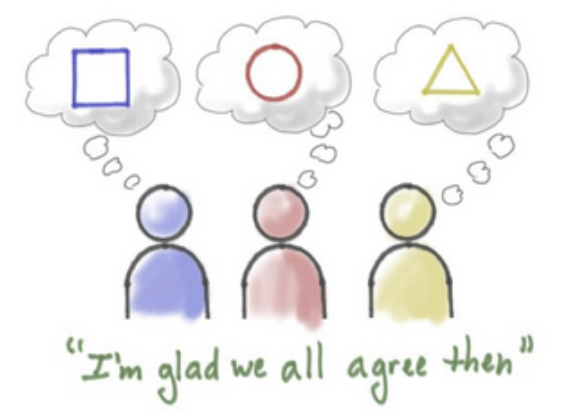
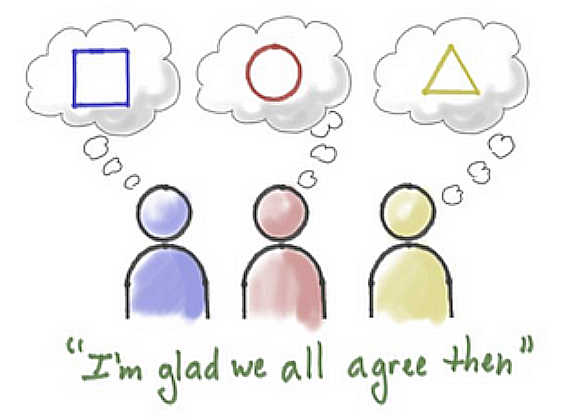
Enhancements

diff --git a/_posts/2019-05-08-BA-and-Beyond.md b/_posts/2019-05-08-BA-and-Beyond.md
@@ -37,6 +37,8 @@ Some typical BA behavioural mistakes are triggered by the way they see themselve
 For instance, a BA could feel to not be part of the team: there are de facto less analysts than developers in a team which can lead to an «Us VS Them» mentality.
 It is also sometimes difficult to build a BA community and the BA role sometimes being sandwiched between IT and the business might lead to negative self perceptions such as «I am just a BA» or «Neither the PO nor the developers understand me».
 
+<img alt="bad-ba-behaviours" src="{{ '/img/ba-and-beyond-2019/bad-ba-behaviours.jpg' | prepend: site.baseurl }}" class="image fit" style="margin:0px auto; max-width: 500px;">
+
 Understanding that the BA is fully part of the team and is not the only one accountable for the communication between IT and Business, leads to better collaboration and is a great step towards agility, allowing all team members to be more confident and positive.
 Whatever your role in a project team; collaboration, transparency, confidence - in yourself and in your team mates - as well as clear communication are key factors to succeed together.
 
@@ -48,8 +50,7 @@ Talking with other analysts and contributing to the practice are important aspec
 Of course all those behaviours and feelings don’t just apply to business analysts but also to every team role: scrum master, developer, product owner, tester.
 This talk gave us the opportunity to identify and name some feelings we can face as business analysts while giving us the keys to find solutions to the difficult situations we could face.
 
-<img alt="wall-art" src="{{ '/img/ba-and-beyond-2019/bad-ba-behaviours.jpg' | prepend: site.baseurl }}" class="image fit" style="margin:0px auto; max-width: 750px;">
-<img alt="wall-art" src="{{ '/img/ba-and-beyond-2019/ba-behaviours.png' | prepend: site.baseurl }}" class="image fit" style="margin:0px auto; max-width: 750px;">
+<img alt="ba-behaviours" src="{{ '/img/ba-and-beyond-2019/ba-behaviours.png' | prepend: site.baseurl }}" class="image fit" style="margin:0px auto; max-width: 500px;">
 
 ## The 7 hidden layers behind agile techniques: Ever wondered why we use post-its during retrospectives? – Pieter Van Driessche
 
@@ -70,7 +71,7 @@ Moreover, post-its give a real chance to introvert people.
 
 ### Team objectives and peer pressures
 
-By giving post-its to everybody attending the retrospective, peer pressure encourages everybody to participate and everybody will at least stick one post-it. 
+By giving post-its to everybody attending the retrospective, peer pressure encourages everybody to participate and everybody will stick at least one post-it. 
 And the more post-its we have, the greater the outcome we build.
 This fact is closely linked to our comfort zone. 
 Although it is sometimes difficult to say what we really think, the post-its and the peer pressure force us to get out of our comfort zone by expressing ourselves, finding solutions and being confronted with our team mates.
@@ -85,7 +86,6 @@ As a consequence, we are more involved in our daily work as we, and the others, 
 
 <span class="image left"><img class="p-image" alt="Pieter Hens" src="/img/ba-and-beyond-2019/pieter-hens.jpg"></span>
 [Pieter Hens](https://www.linkedin.com/in/henspieter/){:target="_blank" rel="noopener noreferrer"} has been working for over 15 years in a software product development and analysis setting. 
-First as a researcher in the area of Business Process Modelling, later as an agile and lean practitioner. 
 He has taken up roles as a business and functional analyst, project manager, coach and team lead in projects of various sizes. 
 He currently specialises in the full range of software product management: product strategy, discovery and development.
 
@@ -98,27 +98,27 @@ Writing a user story is not the BA responsibility, elaborating a user story is a
 Writing the user stories together reduces risk of misunderstanding. 
 Before implementing a user story, all team members should agree on and understand the user story content.
 
-<img alt="wall-art" src="{{ '/img/ba-and-beyond-2019/glad-we-all-agree.jpg' | prepend: site.baseurl }}" class="image fit" style="margin:0px auto; max-width: 750px;">
+<img alt="glad-we-all-agree" src="{{ '/img/ba-and-beyond-2019/glad-we-all-agree.png' | prepend: site.baseurl }}" class="image fit" style="margin:0px auto; max-width: 500px;">
 
 ### We don’t need documents or models anymore
 
 User stories have to be backed up by documents and models. 
 A user story alone is not enough, we need a context and the big picture.
-User stories are not meant o replace documents but to tell stories.
+User stories are not meant to replace documents but to tell stories.
 
 ### If it does not fit the 'As a \[role] I can \[do something]' - template, it is not a user story
 
 Having a template for the user story is an good way to ease the understanding of the common goal. 
-Having our requirements standardized simplifies the processes.
+Having our requirements standardised simplifies the processes.
 However, not all user stories fit the same strict template. 
 Even though a template is important, we should focus less on the template and more on the content itself.
 
-<img alt="wall-art" src="{{ '/img/ba-and-beyond-2019/template-zombie.png' | prepend: site.baseurl }}" class="image fit" style="margin:0px auto; max-width: 750px;">
+<img alt="template-zombie" src="{{ '/img/ba-and-beyond-2019/template-zombie.png' | prepend: site.baseurl }}" class="image fit" style="margin:0px auto; max-width: 750px;">
 
 ## Conclusion
 
-I learned a lot during those two days and the conference gave me new keys to deal with my work every day.
-This great experience also gave me the opportunity to talk and share with other business analysts. 
-It was really inspiring.
+I learned a lot during these two days and the conference gave me new insights and tools to deal with my work every day.
+This great experience also gave me the opportunity to talk and share knowledge and information with other business analysts. 
+It was really inspiring. 
 
 The slides for these presentations can be found on the website of [BA&Beyond](https://ba-beyond.eu/2019-programme.php){:target="_blank" rel="noopener noreferrer"}.
